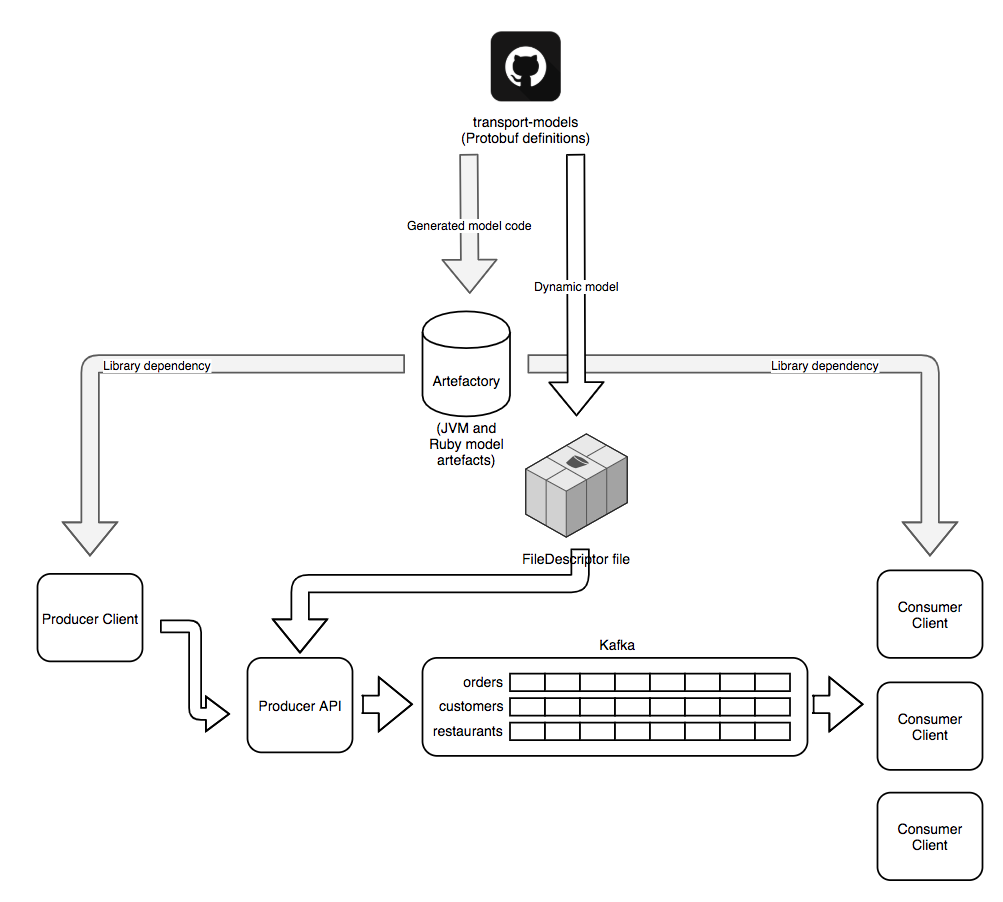
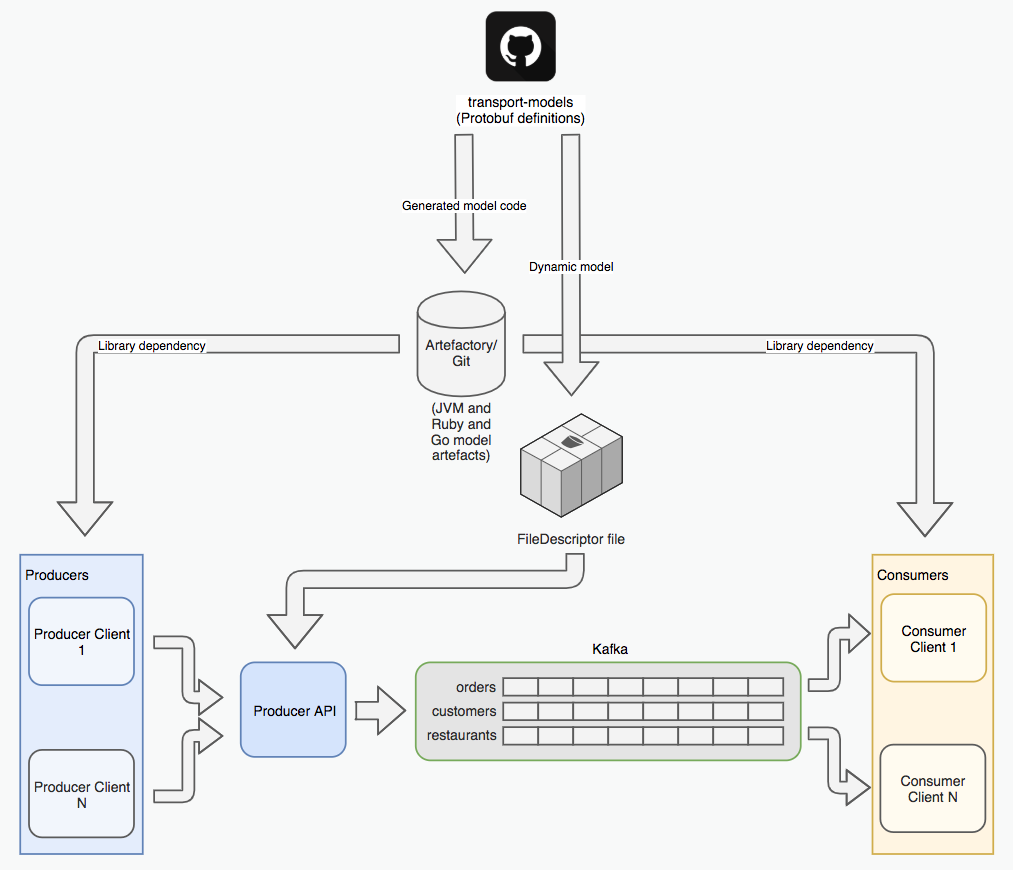
more improvements

Changed region(s): [[0.0, 0.0, 0.989, 0.9931]]

diff --git a/_posts/2019-01-10-improving-stream-data-quality-with-protobuf-schema-validation.md b/_posts/2019-01-10-improving-stream-data-quality-with-protobuf-schema-validation.md
@@ -12,7 +12,7 @@ excerpt: >
 
 Just some of the ways in which we make use of data at Deliveroo include computing 
   optimal rider assignments to in-flight orders, making live operational decisions, personalising restaurant 
-  recommendations to users and prioritising platform fixes. Our quickly expanding business also means our platform 
+  recommendations to users, and prioritising platform fixes. Our quickly expanding business also means our platform 
   needs to keep ahead of the curve to accommodate the ever growing volumes of data and increasing complexity of 
   our systems. The Engineering organisation is in the process of decomposing a monolith application into a suite of 
   microservices. 
@@ -32,16 +32,15 @@ Franz, and how we have designed a way to provide a reliable schema contract betw
 ## The Need for a Structured Message Format
 
 A key requirement of our centralised message service is resilience and one step towards achieving this is providing 
-guarantees about the structure and data types of messages. These guarantees mean consumer applications can have 
-expectations of the format of the data and be less vulnerable to breaking due to corrupt messages. Another important
- aspect for resilience is being able to update the data model without breaking consumers that are depending on the 
- previous version, which means enforcing backwards and forwards compatible schema evolution guarantees. 
+guarantees about the structure of messages and data types within those messages. These guarantees mean consumer 
+applications can have expectations of the format of the data and be less vulnerable to breaking due to corrupt 
+messages. Another important aspect for resilience is being able to update the data model without breaking clients 
+that are depending on a different schema version, which means ensuring we have backwards and forwards compatibility. 
 
-Both of these requirements meant that a flexible data format such as JSON would not be ideal and the team invested 
-in researching transport encoding formats the would provide stronger assurances about the data being transmitted. 
-While there are some ways to give greater guarantees for JSON, such as [JSON Schema](https://json-schema.org/), these 
-still leave a lot to be desired, including a lack of well defined mechanisms for schema evolution, not to mention the
-sub-par encoding and decoding performance of JSON itself.
+Our reasoning about these requirements came from previous experience of sending JSON over streams, and being bitten 
+by the different structural expectations between clients. While there are some ways to give greater guarantees for 
+JSON, such as [JSON Schema](https://json-schema.org/), these still leave a lot to be desired, including a lack of well 
+defined mechanisms for schema evolution, not to mention the sub-par encoding and decoding performance of JSON itself.
 
 ## Deciding on an Encoding Format
 The team began investigating the range of encoding formats that would suit Deliveroo's requirements. The organisation
@@ -57,24 +56,24 @@ conduct an evaluation of these formats to determine what would work best for tra
 
 Thrift and Protobuf have very similar semantics, with IDLs that support the broad types and data structures utilised 
 in mainstream programming languages. When conducting our evaluation, we initially chose Thrift due to familiarity, 
-but in the end discounted this due to lack of community support. Avro was an intriguing option, particularly because 
-of [Confluent’s support for this on Kafka](https://www.confluent.io/blog/avro-kafka-data/). Avro semantics are quite
- different to that of Protobuf, as it is typically used with a schema definition provided in a header to a file. 
- Confluent’s schema registry removes this requirement by keeping the schema definition in an API and tagging each 
- message with a lookup to find that schema. One of the other appealing aspects of Avro is that it manages schema 
- evolution and backwards and forwards compatibility for you, by keeping track of a writers and a readers schema. 
+but in the end discounted this due to lack of momentum in the open source project. Avro was an intriguing 
+option, particularly because of [Confluent’s support for this on Kafka](https://www.confluent.io/blog/avro-kafka-data/). Avro semantics are quite different to that of Protobuf, as it is typically used with a 
+schema definition provided in a header to a file. Confluent’s schema registry removes this requirement by keeping 
+the schema definition in an API and tagging each message with a lookup to find that schema. One of the other 
+appealing aspects of Avro is that it manages schema evolution and backwards and forwards compatibility for you, by 
+keeping track of a writers and a readers schema. 
 
 In the end Avro was discounted as not ideal for Deliveroo’s setup due to lack of cross language support. The thinking
  behind this was based on a desire for support of generated schema classes in each of Deliveroo’s main supported 
  languages (Java/Scala/Kotlin, Go and Ruby). Avro only supported the JVM languages in this regard. As it turns out, 
  the way [Confluent Schema Registry and Avro](https://docs.confluent.io/current/schema-registry/docs/index.html) 
- _do_ support languages outside those with code generation support (through dynamic access to a schema as part of 
- global configuration) turned out to be a feature we also wanted to support with Protobuf. To maintain maximum 
+ _do_ support languages outside those with code generation support (through dynamic access to a schema through an API) 
+ turned out to be a feature we also wanted to support with Protobuf. To maintain maximum 
  flexibility though, we've implemented both code artefacts for the main languages and a centralised repository for 
  dynamic access.
 
 ## Providing Guarantees on Graceful Schema Evolution
-With our decision on Protobuf confirmed, we turned out attention to creating some extra safeguards around schema 
+With our decision on Protobuf confirmed, we turned our attention to creating some extra safeguards around schema 
 evolution.
 
 Some aspects of graceful schema evolution are supported by virtue of Protobuf design. In particular, proto3 has 
@@ -82,12 +81,11 @@ done away with the concept of required fields (which made the decision not to us
 being optional, we're already a long way into achieving backwards and forwards compatibility. There were however some 
 other aspects of the format that needed to be enforced in some way.
 
-The Protobuf documentation outlines the [rules for updating messages](https://developers.google
-.com/protocol-buffers/docs/proto3#updating). A summary of those concepts in relation to stream producers and consumers 
+The Protobuf documentation outlines the [rules for updating messages](https://developers.google.com/protocol-buffers/docs/proto3#updating). A summary of those concepts in relation to stream producers and consumers 
 follows.
 
 ### Protobuf Properties That Support Forwards Compatibility
-Forwards compatibility means that consumers can read data produced from a client which is using a later version of 
+Forwards compatibility means that consumers can read data produced from a client using a later version of 
 the schema than that consumer. In the case where a new field is added to a Protobuf message, the message will be 
 decoded by the consumer but it will have no knowledge of that new field until it moves to the later version.
 
@@ -178,7 +176,9 @@ the advantages of the Confluent Schema registry is that schema management is han
 generated code within client applications. While generated code can be useful in some instances (where one wishes to 
 manage the use of a particular version of the schema within an application in a highly controlled manner), in other 
 cases a client may be better off treating schema definitions more like configuration, available within the run-time 
-environment. In the case of Deliveroo’s Kafka Producer API, requiring a library version update and re-release of the 
+environment.
+
+In the case of Deliveroo’s Kafka Producer API, requiring a library version update and re-release of the 
 application every time the schema changed was deemed too heavyweight to suit the pace of development. To get around 
 this, we’ve implemented a two pronged approach for the distribution of schema information for clients. The first 
 method is in the form of generated code artefacts in relevant Deliveroo languages, held in code repositories. The 
